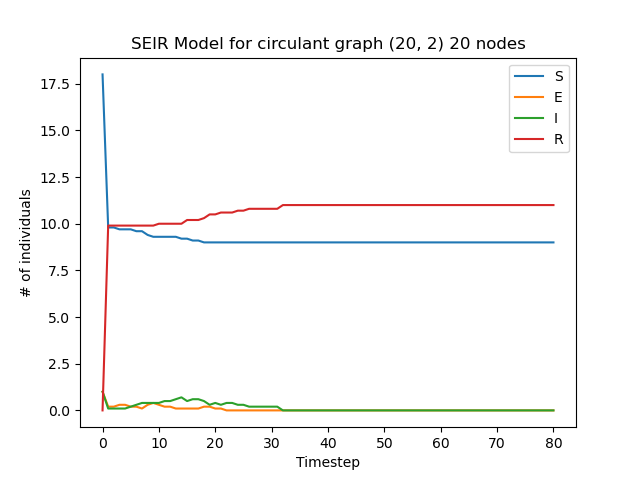
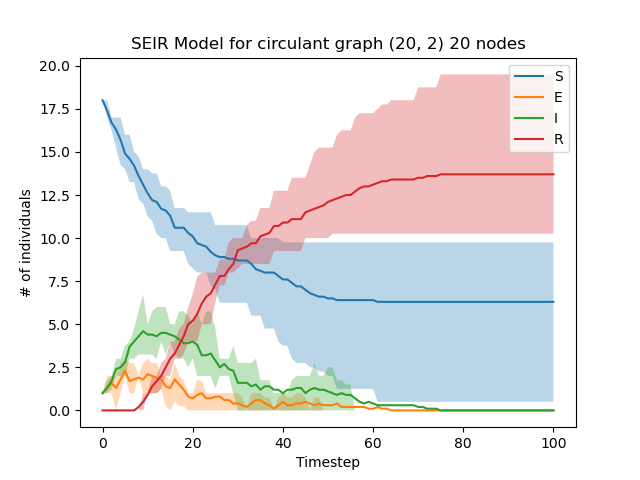
Ran experiments

diff --git a/Project01/Population.py b/Project01/Population.py
@@ -1,3 +1,4 @@
+import networkx as nx
 import numpy as np
 
 from Agent import Agent
@@ -8,15 +9,20 @@ class Population:
     def __init__(self, G):
         N = len(G.nodes)
         self.population = []
-        for i in range(N):
-            neighbors = [n for n in G[i]]
+        for i, node in enumerate(G.nodes):
+            neighbors = [n for n in nx.all_neighbors(G, node)]
             self.population.append(Agent(i, neighbors))
         for i in range(N):
             # Assign neighbors to Agent objects
             A = self.population[i]
             neighbors = A.neighbors
             for j in range(len(neighbors)):
-                neighbors[j] = self.population[neighbors[j]]
+                a = neighbors[j]
+                if type(a) is int:
+                    neighbors[j] = self.population[neighbors[j] - 1]
+                else:
+                    # Lattice neighbors
+                    neighbors[j] = self.population[10 * a[0] + a[1]]
 
         # Set 5% of the population to exposed and 5% to infectious
         exposed_infectious = np.random.choice(

diff --git a/Project01/Experiment.py b/Project01/Experiment.py
@@ -63,10 +63,10 @@ class Experiment:
     def stats(self):
         data = np.array(self.time_series_data).mean(axis=0)
         # Time to peak
-        time_to_peak = data[1].argmax()
+        time_to_peak = data[2].argmax()
         print(f"Time to peak: {time_to_peak}")
         # Peak infections
-        peak_infections = data[1].max()
+        peak_infections = data[2].max()
         print(f"Peak infections: {peak_infections}")
         # Time until no new infections
         min_sus = data[0].min()

diff --git a/Project01/02_circulant_20_4.py b/Project01/02_circulant_20_4.py
@@ -3,5 +3,5 @@ import networkx as nx
 from Experiment import Experiment
 
 G = nx.circulant_graph(20, [1, 2, 3, 4])
-E = Experiment(G, 80, 10, "circulant graph (20, 2)")
+E = Experiment(G, 100, 10, "circulant graph (20, 4)")
 E.run()

diff --git a/Project01/01_circulant_20_2.py b/Project01/01_circulant_20_2.py
@@ -3,5 +3,5 @@ import networkx as nx
 from Experiment import Experiment
 
 G = nx.circulant_graph(20, [1, 2])
-E = Experiment(G, 80, 10, "circulant graph (20, 2)")
+E = Experiment(G, 100, 10, "circulant graph (20, 2)")
 E.run()

diff --git a/Project01/07_dublin.py b/Project01/07_dublin.py
@@ -1,0 +1,6 @@
+from Experiment import Experiment
+from utils.DublinGraph import DublinGraph
+
+G = DublinGraph._read_graph_from_file()
+E = Experiment(G, 100, 10, "Dublin Graph")
+E.run()

diff --git a/Project01/05_scale_free_100.py b/Project01/05_scale_free_100.py
@@ -1,0 +1,7 @@
+import networkx as nx
+
+from Experiment import Experiment
+
+G = nx.barabasi_albert_graph(100, 3)
+E = Experiment(G, 100, 10, "Scale-free")
+E.run()

diff --git a/Project01/06_scale_free_410.py b/Project01/06_scale_free_410.py
@@ -1,0 +1,7 @@
+import networkx as nx
+
+from Experiment import Experiment
+
+G = nx.barabasi_albert_graph(410, 3)
+E = Experiment(G, 100, 10, "Scale-free")
+E.run()

diff --git a/Project01/04_lattice.py b/Project01/04_lattice.py
@@ -1,0 +1,7 @@
+import networkx as nx
+
+from Experiment import Experiment
+
+G = nx.grid_2d_graph(10, 10)
+E = Experiment(G, 100, 10, "lattice graph")
+E.run()

diff --git a/Project01/03_complete_100.py b/Project01/03_complete_100.py
@@ -1,0 +1,7 @@
+import networkx as nx
+
+from Experiment import Experiment
+
+G = nx.complete_graph(100)
+E = Experiment(G, 100, 10, "complete graph")
+E.run()
